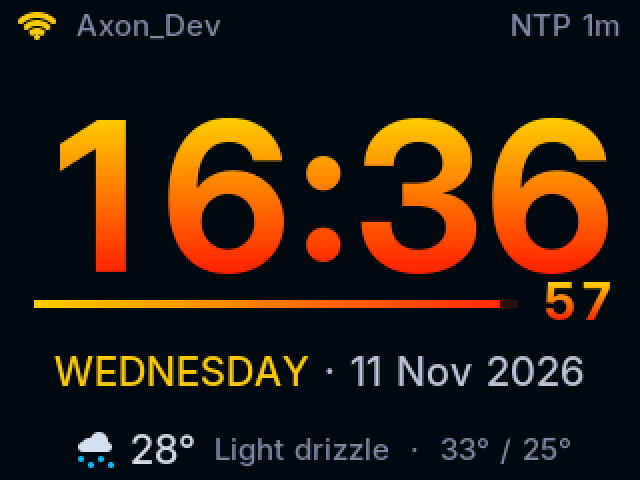
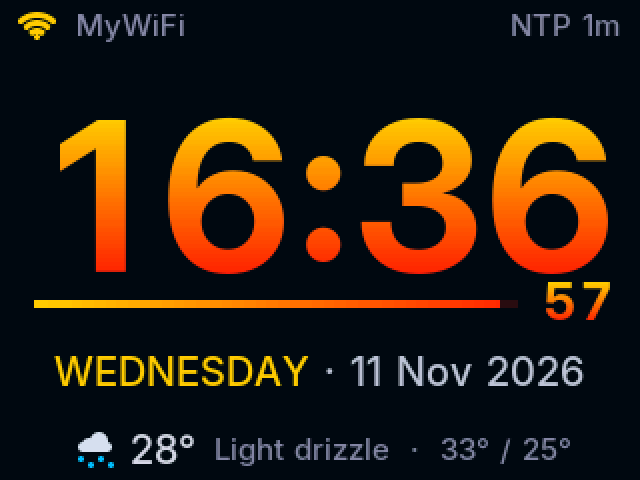
Docs: remove network names and personal text before going public
- README: no company network names or the board's MAC address.
- Clock screenshots: the status bar's network name is repainted as
  "MyWiFi" (same font, size and colour); the Change Wi-Fi screenshot too.
- Web screenshots regenerated from a mock with neutral data.

Changed region(s): [[0.125, 0.0312, 0.3438, 0.0938]]

diff --git a/README.md b/README.md
@@ -563,13 +563,13 @@ src/serial_console.*            serial commands (SET, TZ, WIFI, NTP, WEATHER, BA
   failure:
   `2` auth expired (the access point didn't answer), `15`/`202` wrong password,
   `201` network not found, `203` association rejected, `204` handshake timeout.
-  WPA2-Enterprise (802.1X, e.g. `Axon_Corp`) isn't supported. Run `WIFI PORTAL` to
+  WPA2-Enterprise (802.1X, common on corporate networks) isn't supported. Run `WIFI PORTAL` to
   re-enter credentials.
-- **Office Wi-Fi with many access points (e.g. `Axon_Open`):** connecting works, but some
+- **Office Wi-Fi with many access points:** connecting works, but some
   access points often ignore the ESP32's authentication (reason 2) even at −50 dBm, so a
   connection can take a few retries (~10–90 s). If it never connects, ask IT whether the
   network uses MAC allow-listing or client exclusion. The clock's Wi-Fi MAC is shown by
-  `esptool` at upload (e.g. `48:af:f3:70:57:a0`).
+  `esptool` at upload (e.g. `24:0a:c4:12:34:56`).
 - **Clock restarts a few seconds after joining Wi-Fi (`task_wdt: IDLE0`):** fixed in v0.12.
   A TLS handshake with Open-Meteo takes ~7 s on the ESP32, mostly one CPU-bound step
   (software ECDSA P-384 certificate checks). With the default 5 s task watchdog this reset
